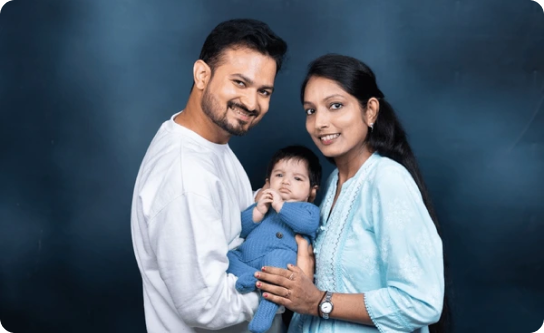
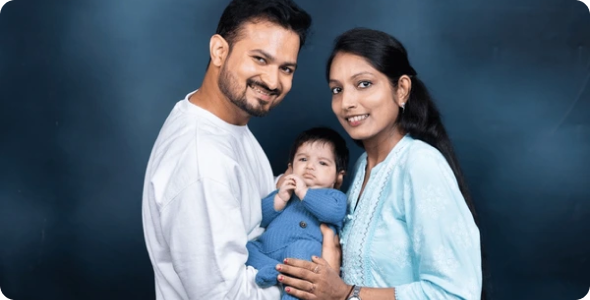
resized the sizes of all the images including the face images and the sliders.

diff --git a/index.html b/index.html
@@ -140,7 +140,7 @@
       </h2>
       <div class="flex justify-center items-center my-10 w-full">
         <img
-          src="images/family-images/boy-photo.png"
+          src="images/family-images/baby-image.png"
           class="w-80 rounded-full border-5 border-[#F7A652] hover:scale-105 transition duration-300"
         />
       </div>
@@ -344,28 +344,28 @@
       <div class="flex justify-around items-center my-10 w-full px-52">
         <div>
           <img
-            src="images/family-images/dad-photo.png"
+            src="images/family-images/dad-image.png"
             class="w-52 rounded-full border-5 border-[#F7A652] hover:scale-105 transition duration-300"
           />
           <p class="text-[25px] font-normal">Dada</p>
         </div>
         <div>
           <img
-            src="images/family-images/mom-photo.png"
+            src="images/family-images/mom-image.png"
             class="w-52 rounded-full border-5 border-[#F7A652] hover:scale-105 transition duration-300"
           />
           <p class="text-[25px] font-normal">Mumma</p>
         </div>
         <div>
           <img
-            src="images/family-images/grandpa-photo.png"
+            src="images/family-images/grandpa-image.png"
             class="w-52 rounded-full border-5 border-[#F7A652] hover:scale-105 transition duration-300"
           />
           <p class="text-[25px] font-normal">Thatha</p>
         </div>
         <div>
           <img
-            src="images/family-images/grandma-photo.png"
+            src="images/family-images/grandma-image.png"
             class="w-52 rounded-full border-5 border-[#F7A652] hover:scale-105 transition duration-300"
           />
           <p class="text-[25px] font-normal">Ammama</p>
@@ -382,14 +382,28 @@
     <!-- Ads -->
 
     <footer>
-      <div>
-        <div class="flex justify-evenly items-start">
-          <h3 class="font-bold">SOCIAL MEDIA HANDLES</h3>
-          <img src="" alt="" class="w-40 h-40 border-black border-2" />
+      <!-- main div -->
+      <div class="flex justify-evenly gap-32">
+        <div class="text-left">
+          <h2>SOCIAL MEDIA HANDLES</h2>
+          <hr class="mb-3 border-t-2" />
+          <!-- qr code -->
+          <div class="h-44 w-44 border-2 border-black"></div>
+          <h1 class="bold text-xl">FOLLOW ON</h1>
         </div>
-
-        <div></div>
-
+        <div class="text-left">
+          <h2>CONTACT INFORMATION</h2>
+          <hr class="border-t-2" />
+          <span class="text-none">+91 92462 98649</span><br />
+          <span class="text-none">infi@invitd.in</span><br />
+          <span class="text-none"
+            >1271, Jubilee Hills,Hyderabad,<br />Telangana,500033</span
+          >
+        </div>
+        <div>
+          <h2>GET DIRECTION</h2>
+          <hr class="border-t-2" />
+        </div>
         <div></div>
       </div>
     </footer>
